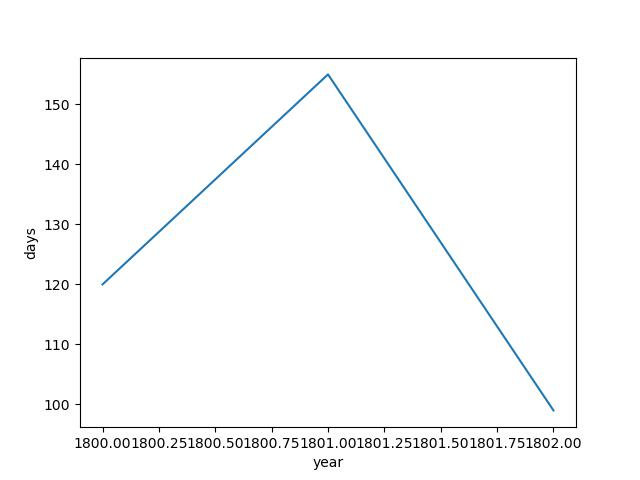
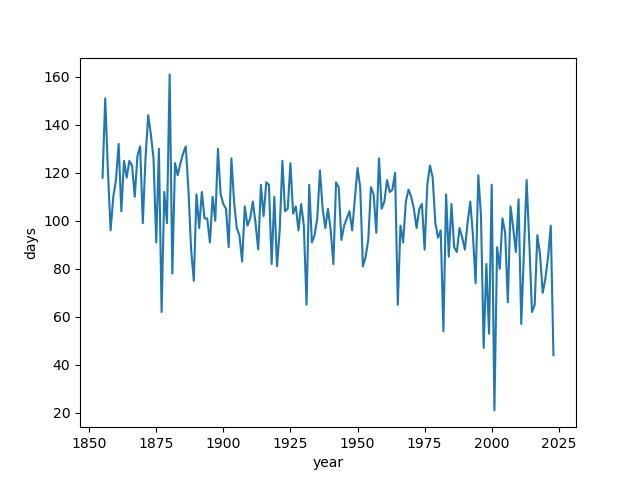
added homework 5

diff --git a/hw5/hw5_starter.py b/hw5/hw5_starter.py
@@ -51,8 +51,8 @@ if __name__ == "__main__":
     print(weights)
     
     #Question 4 - Linear Regression w/ Gradient Descent
-    '''
-    LEARNING_RATE = 0 #IMPORTANT: You will tune this so that the gradient descent converges
+
+    LEARNING_RATE = 0.75055 #IMPORTANT: You will tune this so that the gradient descent converges
     
     gd_X = torch.tensor(X_normalized)
     gd_Y = torch.tensor(Y)
@@ -63,7 +63,7 @@ if __name__ == "__main__":
     
     print("Q4a:")
     for iter in range(NUM_ITERS):
-        loss = #### TODO: fill this in ####
+        loss = torch.mean(((gd_X @ gd_weights) - gd_Y)**2) #### TODO: fill this in ####
         
         losses[iter] = loss.item()
         
@@ -77,10 +77,10 @@ if __name__ == "__main__":
 
         #Performs one step of gradient descent
         with torch.no_grad():
-            gd_weights -= LEARNING_RATE * gd_weights.grad
+            gd_weights -= LEARNING_RATE * gd_weights.grad # type: ignore
 
         #Resets the computation graph
-        gd_weights.grad.zero_()
+        gd_weights.grad.zero_() # type: ignore
 
     plt.figure()
     plt.plot(range(NUM_ITERS), losses)
@@ -89,21 +89,38 @@ if __name__ == "__main__":
     plt.savefig("loss_plot.jpg")
 
     print("Q4b:", LEARNING_RATE)
-    print("Q4c: *your answer here*")
-    '''
+    print("Q4c: I started with a small step size of .1 because I think that a smaller step size would be the most accurtate, but it turns out that you cant get to the bottom with a step size of .1 within 200 steps. Then gradually moved it up to .75055 where I found that the resulting biases and weights look pretty close to the biases and weights we had for Q3.")
     
     #Question 5 - Prediction
- 
-    #print("Q5: " + str(y_hat))
+    w = weights[0]
+    b = weights[1]
+    x_predict = 2024
+
+    x_tilde_predict = (x_predict - m) / (M - m)
+
+    y_hat = w * x_tilde_predict + b
+
+    print("Q5: " + str(y_hat))
 
 
     #Question 6 - Model Interpretation
-    
-    #print("Q6a: " + symbol)
-    #print("Q6b: ...")
+    w = weights[0]
+    if w > 0:
+        symbol = ">"
+    elif w < 0:
+        symbol = "<"
+    else:
+        symbol = "="
+
+    print("Q6a: " + symbol)
+    print("Q6b: if w = 0, the year has no impact on the number of days the lake was frozen.\nif w > 0 then it would indicate as the year increases, the number of frozen days tends to increase as well.\nif w < 0 then it would indicate that as the year increases, the number of frozen days tends to decrease.")
 
 
     #Question 7 - Model Limitations
-    
-    #print("Q7a: " + str(x_star))
-    #print("Q7b: ...") -
+    w = weights[0]
+    b = weights[1]
+    x_star = ((-b / w) * (M - m)) + m
+
+    print("Q7a: " + str(x_star))
+    print("Q7a: " + str(x_star))
+    print("Q7b: The prediction is not compelling since it is extrapolating wayyy beyond the range of the data, meaning that we are asssuming that the rate will remain constant, which is likely not true. There are simply too many factors we cannot account for that might affect the actual result due to how far forward it is in the future.") 
